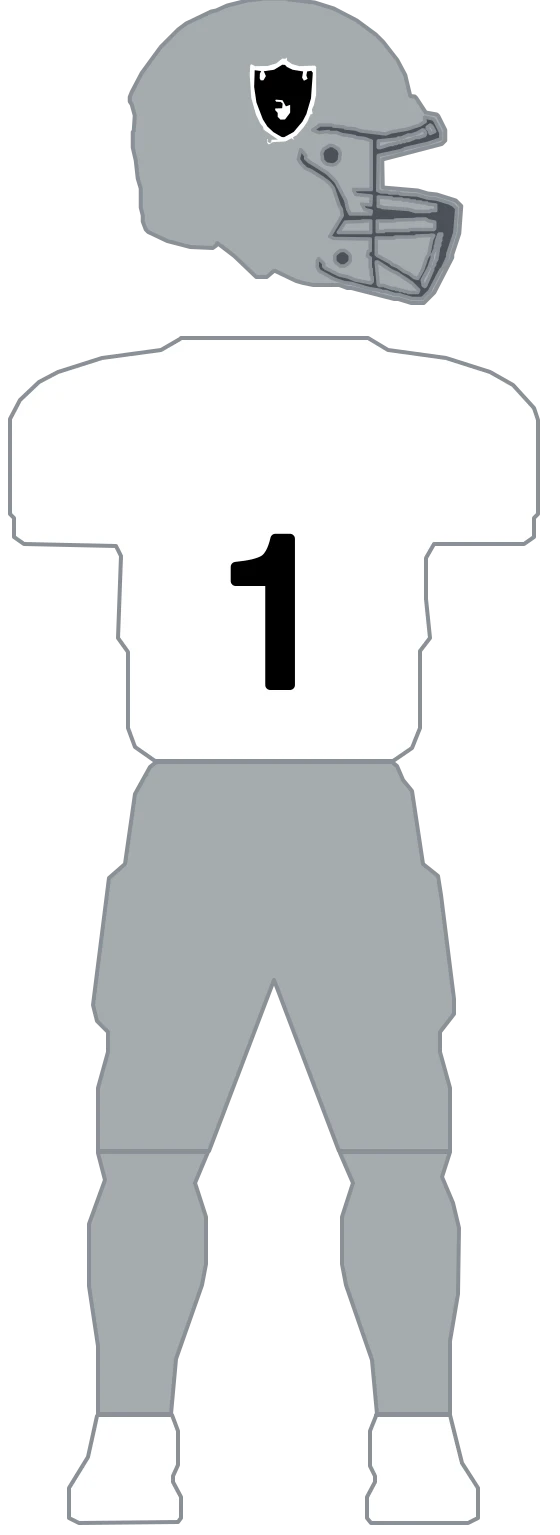
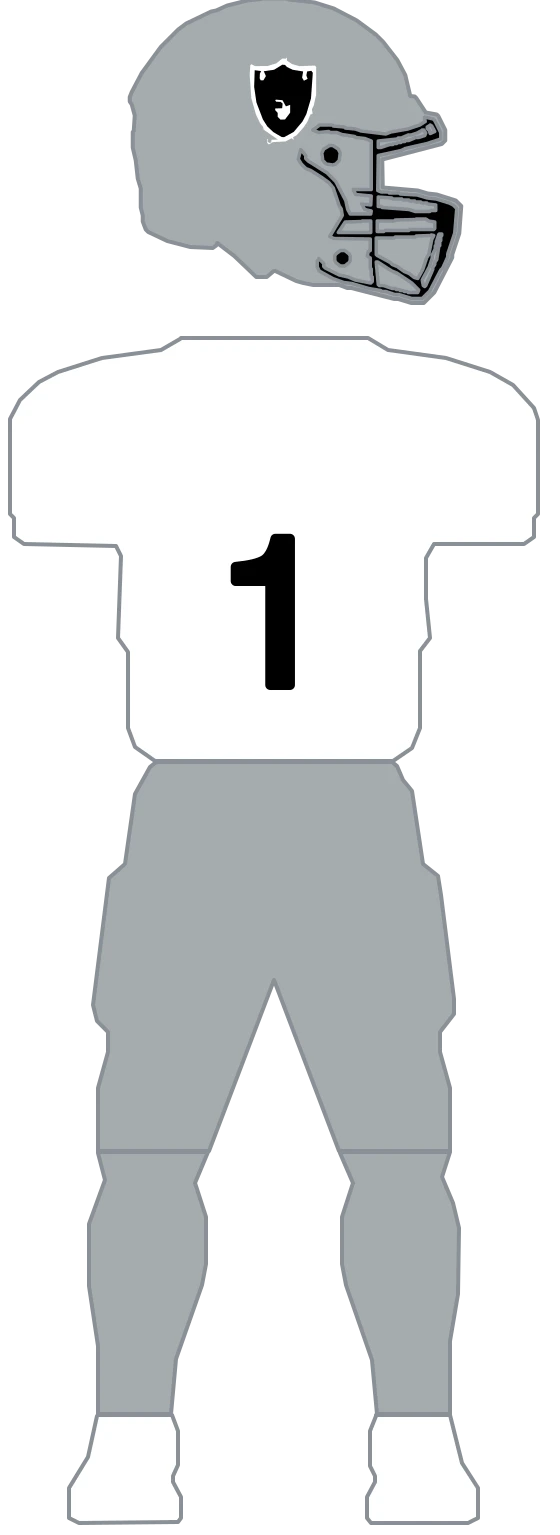
feat(uniforms): migrate Raiders to composable parts and set its black facemask (#673)
Both Las Vegas kits wear the same silver shell (with the shield decal — white
keyline, black shield, white face, fixed art) and the same silver pants; only
the jersey body differs, black at home and white away, with the away numerals
black to match. The flat form reached the shell and pants through `secondary`
at home and `accent` away — silver is a different token per row — and the
numerals through `secondary` meaning silver at home and black away. Parts make
each kit a combination: 1 helmet (H1 silver shield), 2 jerseys (J1 black,
J2 white), 1 pants (P1 silver), matching the measured target.

The migration's parity gate proved all 6 raiders rasters (2 kits x 2 variants)
byte-identical against the flat definition, then the flat definition and its
builder helpers were deleted and the team removed from MIGRATED, per the
one-time-proof lifecycle (depth#660).

Facemask follows the parts migration per phase order: the silver shell carries
a black facemask (named sources; the GUD composite reads the cage bars at
#000000 against the silver shell). Only the two -full rasters move, and the
change is confined to the helmet region (verified pixel-diffed).

diff --git a/lib/uniforms/teams/raiders.ts b/lib/uniforms/teams/raiders.ts
@@ -1,15 +1,8 @@
-import type { ColorRef, TeamUniformDefinition, UniformLayer } from './types';
+// Las Vegas' construction geometry — the shield decal paths only. The composable parts
+// definition that consumes them lives in ./raiders.parts.ts; the former flat RAIDERS_UNIFORMS was
+// deleted in the migration that proved parts render byte-identically (see parts-parity.test.ts for
+// the one-time gate).
 
-// Las Vegas' two archived kits, read off the Gridiron Uniform Database 2025 composite in
-// nfl-uniform-refs/raiders (home is that sheet's row-1 figure 1, away its row-2 figure 1).
-//
-// This module carries no layers, and that is the measurement, not a shortcut. A column down the
-// sleeve of the home figure (jersey top y=133, sleeve hem y=199) runs unbroken black from the
-// shoulder to the hem; the pants are unbroken silver; the collar carries no contrast trim. The only
-// non-body marks on the reference are the shoulder numerals and the sleeve patch, both of which are
-// out of scope everywhere. So both kits are the stripped generic model plus three color choices,
-// which is exactly what this club's uniform is.
-//
 // Provenance: contour trace of the club's mark from the GUD composite — a reproduction
 // of a third-party mark, not original geometry. The mark is NON-FREE upstream
 // (Wikimedia `File:Las Vegas Raiders logo.svg`, fair use; trademarked). Licence audit: the vault’s
@@ -18,12 +11,6 @@ import type { ColorRef, TeamUniformDefinition, UniformLayer } from './types';
 // The shield, traced from the home figure's shell (bbox x33-188, y29-149 in the reference — a GIF,
 // normalized to RGB first) mapped onto the raw helmet space at ~6.25x. Three plain-union fills:
 // white keyline, black shield, and the pirate's face.
-//
-// This module used to say the mark had "no solid region to carry it". That was a fair description
-// of the pirate and the crossed swords and a wrong description of the mark, which is mostly a solid
-// black shield about 28x29 reference px — comfortably above the floor and cleanly separable from
-// the silver shell. Judging a mark by its most detailed feature rather than by what it is mostly
-// made of is how this archive lost four other decals; see the brief's §6.
 //
 // WHAT IS GENUINELY DROPPED is the interior: the "RAIDERS" wordmark (out of scope everywhere) and
 // the crossed swords, which are sub-2px at this size. The pirate's face survives as a single ~7x6px
@@ -36,60 +23,3 @@ export const RAIDERS_DECAL_SHIELD_PATH =
   'M443.8,197.4 L449.5,197.8 L453.4,202.0 L464.8,207.5 L485.8,210.9 L483.7,223.2 L487.3,229.5 L494.7,225.7 L492.2,218.9 L493.7,210.9 L502.2,209.6 L505.1,213.4 L501.5,264.6 L492.2,296.3 L484.4,311.1 L466.9,331.9 L447.7,342.4 L442.7,342.0 L426.3,332.3 L414.2,320.9 L405.3,306.9 L392.4,273.1 L387.8,241.8 L388.9,208.4 L401.7,210.1 L399.2,215.6 L398.9,224.9 L401.0,228.7 L406.3,228.7 L411.3,220.2 L407.1,210.5 L427.7,207.5 L443.4,197.8 Z';
 export const RAIDERS_DECAL_FACE_PATH =
   'M431.3,267.2 L444.5,268.4 L451.3,280.7 L459.8,277.7 L459.8,293.4 L449.5,306.9 L440.6,307.3 L434.9,301.8 L434.9,293.8 L429.9,288.3 L429.9,284.9 L443.8,284.5 L444.8,275.2 L440.9,271.8 L432.0,271.4 L429.9,268.8 L430.9,267.6 Z';
-
-// Fixed art: black on white on both silver shells, so nothing here takes a token.
-function decal(): UniformLayer[] {
-  return (
-    [
-      ['raiders-decal-keyline', RAIDERS_DECAL_KEYLINE_PATH, '#FFFFFF'],
-      ['raiders-decal-shield', RAIDERS_DECAL_SHIELD_PATH, '#000000'],
-      ['raiders-decal-face', RAIDERS_DECAL_FACE_PATH, '#FFFFFF'],
-    ] as [string, string, ColorRef][]
-  ).map(([id, d, fill]) => ({
-    id,
-    surface: 'helmet' as const,
-    d,
-    clip: true,
-    kind: 'fill' as const,
-    fill,
-  }));
-}
-//
-// Out of scope on both kits: the chest wordmark, the league shield, and the shoulder numerals.
-
-const GENERIC_STRIPPED = [
-  'generic-helmet-stripe',
-  'generic-sleeve-yoke-left',
-  'generic-sleeve-yoke-right',
-  'generic-sleeve-stripe-left',
-  'generic-sleeve-stripe-right',
-  'generic-collar',
-  'generic-pants-stripe-left',
-  'generic-pants-stripe-right',
-];
-
-export const RAIDERS_UNIFORMS: TeamUniformDefinition = {
-  teamId: 'raiders',
-  defaults: { removeLayerIds: GENERIC_STRIPPED },
-  kits: {
-    // Black body, silver shell and silver pants. Silver is both secondary and accent here (ESPN
-    // supplies only two colors), so every silver surface resolves from `secondary`. The numerals are
-    // silver with no separate keyline, so the outline is set to the face color rather than left to
-    // inherit the generic model's contrasting stroke.
-    home: {
-      helmetColor: 'secondary',
-      pantsColor: 'secondary',
-      layers: decal(),
-      number: { fill: 'secondary', outline: 'secondary', outlineWidth: 10 },
-    },
-    // White body under the same silver shell and pants. The away palette moves white into primary
-    // and black into secondary, so silver is only reachable through `accent` and the numerals —
-    // black on white — take `secondary`.
-    away: {
-      helmetColor: 'accent',
-      pantsColor: 'accent',
-      layers: decal(),
-      number: { fill: 'secondary', outline: 'secondary', outlineWidth: 10 },
-    },
-  },
-};

diff --git a/lib/uniforms/teams/raiders.parts.ts b/lib/uniforms/teams/raiders.parts.ts
@@ -1,0 +1,99 @@
+// Las Vegas authored as composable parts. Geometry is imported unchanged from raiders.ts — this
+// file only restates WHICH parts each kit combines, and names every color from the team palette
+// instead of the kit row's shifting primary/secondary/accent.
+//
+// What the flat definition was hiding: both Raiders kits wear the SAME silver shell with the
+// shield decal (white keyline, black shield, white face — fixed art) and the SAME silver pants.
+// The flat form reached the shell and pants through `secondary` at home and `accent` away (silver
+// is a different token per row), and the numerals through `secondary` both times but meaning
+// silver at home and black away. Only the jersey body actually differs: black at home, white away,
+// with the away numerals black to match.
+
+import {
+  RAIDERS_DECAL_FACE_PATH,
+  RAIDERS_DECAL_KEYLINE_PATH,
+  RAIDERS_DECAL_SHIELD_PATH,
+} from './raiders';
+import { compileParts, type PartLayer, type TeamPartsDefinition, type UniformPart } from './parts';
+
+// The shield decal: white keyline, black shield, white face. Fixed art — black and white on both
+// silver shells, so nothing here takes a team token.
+const DECAL: PartLayer[] = [
+  {
+    id: 'raiders-decal-keyline',
+    surface: 'helmet',
+    d: RAIDERS_DECAL_KEYLINE_PATH,
+    clip: true,
+    kind: 'fill',
+    fill: 'white',
+  },
+  {
+    id: 'raiders-decal-shield',
+    surface: 'helmet',
+    d: RAIDERS_DECAL_SHIELD_PATH,
+    clip: true,
+    kind: 'fill',
+    fill: 'black',
+  },
+  {
+    id: 'raiders-decal-face',
+    surface: 'helmet',
+    d: RAIDERS_DECAL_FACE_PATH,
+    clip: true,
+    kind: 'fill',
+    fill: 'white',
+  },
+];
+
+// The silver shell with the shield decal — one object, shared by both kits.
+//
+// Black cage. The Raiders' silver shell carries a black facemask (named sources; the GUD composite
+// reads the cage bars at #000000 against the shell's #d6dbe3 and the white background). The shared
+// neutral #4b5158 it replaces is a mid-grey that reads soft against the silver shell.
+const HELMET_SILVER_SHIELD: UniformPart = {
+  base: 'silver',
+  facemask: 'black',
+  layers: DECAL,
+};
+
+// Home jersey: black body, silver numerals.
+const JERSEY_BLACK: UniformPart = {
+  base: 'black',
+  layers: [],
+  number: { fill: 'silver', outline: 'silver', outlineWidth: 10 },
+};
+
+// Away jersey: white body, black numerals.
+const JERSEY_WHITE: UniformPart = {
+  base: 'white',
+  layers: [],
+  number: { fill: 'black', outline: 'black', outlineWidth: 10 },
+};
+
+// Plain silver pants, shared by both kits.
+const PANTS_SILVER: UniformPart = { base: 'silver', layers: [] };
+
+export const RAIDERS_PARTS: TeamPartsDefinition = {
+  teamId: 'raiders',
+  // Jersey hexes from the curated rows (teamcolorcodes) — the same three the two rows carry
+  // across their primary/secondary/accent slots, where silver is a different token per kit.
+  palette: {
+    black: '#000000',
+    white: '#FFFFFF',
+    // The shell and pants silver — the same physical color whether home reaches it through
+    // 'secondary' or away through 'accent'. Silver is the Raiders' silver #A5ACAF.
+    silver: '#A5ACAF',
+  },
+  helmets: { 'silver-shield': HELMET_SILVER_SHIELD },
+  jerseys: {
+    black: JERSEY_BLACK,
+    white: JERSEY_WHITE,
+  },
+  pants: { silver: PANTS_SILVER },
+  kits: {
+    home: { helmet: 'silver-shield', jersey: 'black', pants: 'silver' },
+    away: { helmet: 'silver-shield', jersey: 'white', pants: 'silver' },
+  },
+};
+
+export const RAIDERS_UNIFORMS_FROM_PARTS = compileParts(RAIDERS_PARTS);

diff --git a/lib/uniforms/teams/index.ts b/lib/uniforms/teams/index.ts
@@ -21,7 +21,7 @@ import { LIONS_UNIFORMS } from './lions';
 import { NINERS_UNIFORMS } from './niners';
 import { PANTHERS_UNIFORMS } from './panthers';
 import { PATRIOTS_UNIFORMS } from './patriots';
-import { RAIDERS_UNIFORMS } from './raiders';
+import { RAIDERS_UNIFORMS_FROM_PARTS } from './raiders.parts';
 import { PACKERS_UNIFORMS } from './packers';
 import { RAMS_UNIFORMS } from './rams';
 import { RAVENS_UNIFORMS } from './ravens';
@@ -61,7 +61,7 @@ chiefs: CHIEFS_UNIFORMS_FROM_PARTS,
   packers: PACKERS_UNIFORMS,
   panthers: PANTHERS_UNIFORMS,
   patriots: PATRIOTS_UNIFORMS,
-  raiders: RAIDERS_UNIFORMS,
+  raiders: RAIDERS_UNIFORMS_FROM_PARTS,
   rams: RAMS_UNIFORMS,
   ravens: RAVENS_UNIFORMS,
   saints: SAINTS_UNIFORMS,
